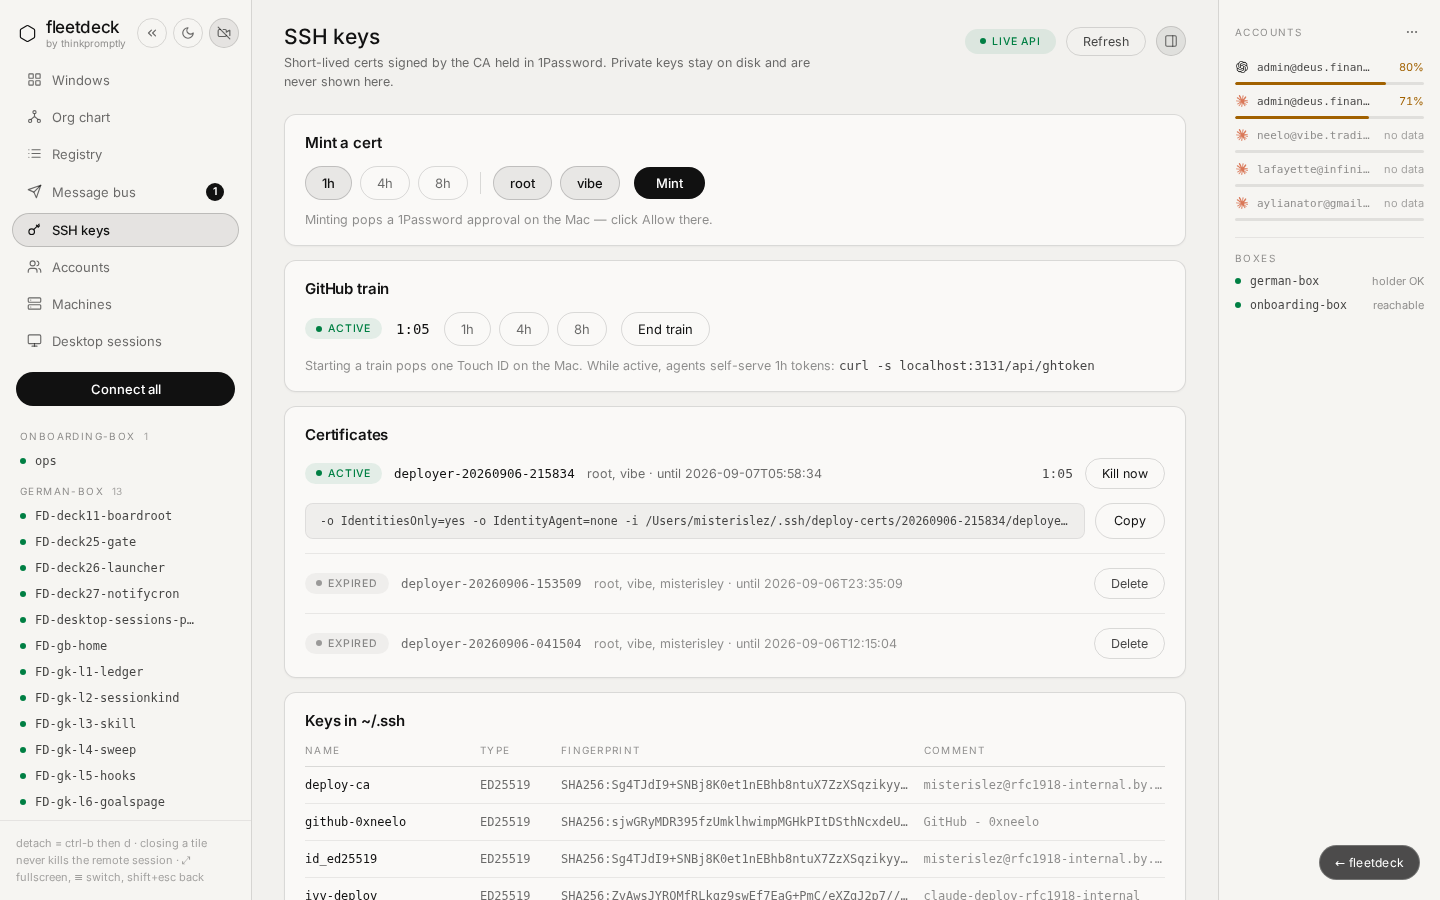
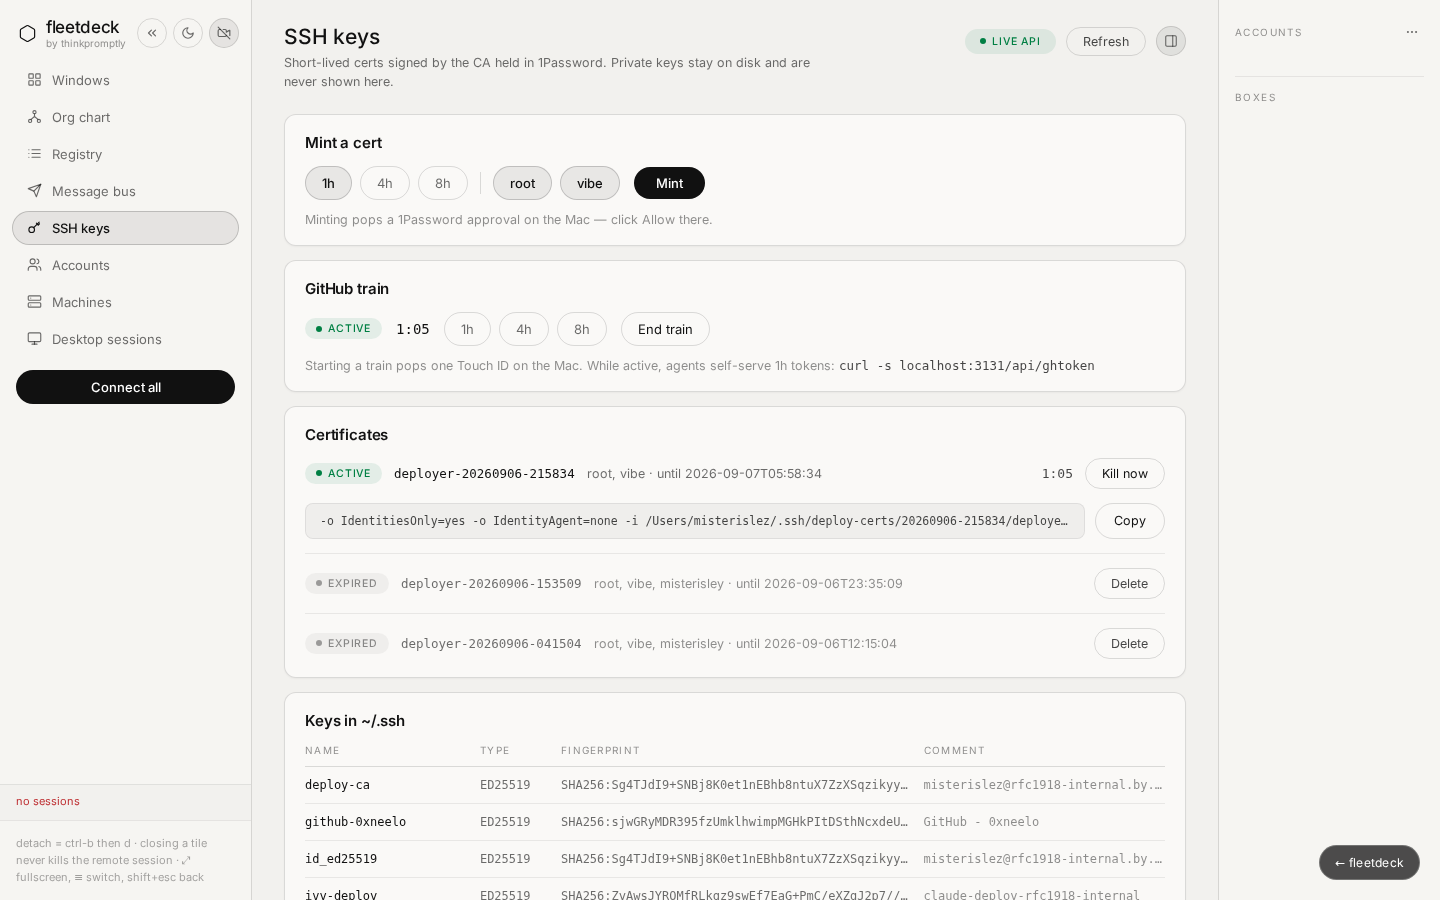
fix(fd-v2-l7.1): gate the poll and tick on the screen; re-apply data-dc-raw (DECK-44)
1. boot() started the 30 s sshkeys/ghtrain poll and the 1 s tick at module load,
   so the deck polled /api/sshkeys forever from whatever screen you were on.
   logic.js already hands sync() next.isKeys, so the timers now start on enter
   and stop on leave, and stop() releases the poll handle and drops ticks.

2. capture() set data-dc-raw on the Certificates card only on the first capture.
   The sc-if tears the subtree down on navigation, so every visit after the
   first ran with no guard at all. It is now re-applied on every capture, and
   only to a card the reconciler has already populated so an empty card is never
   frozen empty.

To make the lifecycle testable, keys.js now loads under Node the way org.js
does rather than returning at a document guard; screenEl() no-ops without a
document. Fixture mode still returns early — that is what holds the pixel gate.

  unit  test/v2-keys.test.js 18/18, incl. a mock-timer test that leaves the
        screen, advances five minutes and asserts no fetch
  live  71/71 allPass, incl. S25: leave, let three poll periods pass, revisit
        with a changed cert list, assert the guard is back and rows survive

Claude-Session: https://claude.ai/code/session_01KhMDKvm9SABNQ4v16YgyMb

diff --git a/public/v2/screens/keys.js b/public/v2/screens/keys.js
@@ -89,13 +89,16 @@
 
   // Fixture mode renders the mock verbatim. Register nothing, start no timers,
   // load no script, touch no DOM — this is what keeps the pixel gate at 36/36.
-  // No document means Node, where only the exports above are wanted.
   //
   // The fixture test is inlined rather than delegated to FD.data.isFixture()
   // because it has to answer BEFORE data.js is fetched below; it mirrors
   // data.js:563-567 exactly. Getting this wrong would put a network request on
   // the pixel-gate page, so it is deliberately the first thing decided.
-  if (typeof document === 'undefined') return;
+  //
+  // Node is NOT excluded here. Everything below touches the DOM only from a
+  // function, and the bootstrap guards on `document`, so requiring this file
+  // under Node registers FD.screens.keys and starts nothing — which is what
+  // lets test/v2-keys.test.js drive start()/stop() the way v2-org.test.js does.
   if (isFixtureMode()) return;
 
   function isFixtureMode() {
@@ -132,6 +135,10 @@
   var repaintQueued = false;
   var proto = null;      // deep clones of the mock's own nodes, used as row prototypes
   var seeded = false;    // live mode has restored today's principal default
+  var tickTimer = null;  // the 1 s countdown ticker, only while the screen is up
+  var pollHandle = null; // the 30 s sshkeys/ghtrain poll, same
+  var onScreen = false;  // the keys screen is the one currently rendered
+  var booted = false;    // FD.data is present, so the timers may run
 
   // ---- the seam with logic.js --------------------------------------------
   // logic.js calls this from its keys section on every render, before the
@@ -159,8 +166,19 @@
         }
       }
       if (next.prin) principals = next.prin;
-      queueRepaint();
+      // BEHAVIOUR §3/§6: the 30 s poll and the 1 s tick belong to this screen,
+      // not to the app. Today's keys.js is a page that only exists while you
+      // are on it; in a SPA that means starting on enter and stopping on leave,
+      // or the deck polls /api/sshkeys forever from whatever screen you are on.
+      var was = onScreen;
+      onScreen = !!next.isKeys;
+      if (onScreen && !was) start();
+      else if (!onScreen && was) stop();
+      if (onScreen) queueRepaint();
     },
+    // Exposed for verify/l7 and test/v2-keys.test.js, as org.js does.
+    start: start,
+    stop: stop,
     // Exposed for verify/l7 and test/v2-keys.test.js.
     _debug: {
       left: left,
@@ -172,6 +190,7 @@
       // it to flip the theme mid-session — the app has no theme toggle in its
       // markup, so there is no other way to drive that path from a test.
       get ctx() { return ctx; },
+      get timers() { return { tick: !!tickTimer, poll: !!pollHandle, onScreen: onScreen }; },
     },
   };
 
@@ -184,7 +203,11 @@
   // ---- DOM helpers --------------------------------------------------------
   function css(node, style) { if (node && style) Object.assign(node.style, style); }
   function kids(node) { return node ? Array.prototype.slice.call(node.children) : []; }
-  function screenEl() { return document.querySelector('[data-screen-label="SSH keys"]'); }
+  // No document means Node, where this module is required for its pure half
+  // and its lifecycle; every painter then no-ops instead of throwing.
+  function screenEl() {
+    return typeof document === 'undefined' ? null : document.querySelector('[data-screen-label="SSH keys"]');
+  }
 
   // The pill is <span style=pill><span style=dot></span>TEXT</span>: set the
   // wrapper style, the dot style, and the trailing text node.
@@ -213,9 +236,18 @@
   // them as prototypes for every painted row. This is why no markup is typed by
   // hand anywhere in this slice.
   function capture(root) {
-    if (proto) return true;
     var cards = kids(root);
     if (cards.length < 4) return false;
+    // Re-applied on EVERY capture. The sc-if wrapping this screen tears the
+    // whole subtree down when you navigate away, so a later visit gets fresh
+    // nodes carrying none of our attributes — setting it once on first capture
+    // left every visit after the first with no guard at all. Only ever set on
+    // a card the reconciler has already populated, so an empty card is never
+    // frozen empty.
+    if (kids(cards[2]).length && !cards[2].hasAttribute('data-dc-raw')) {
+      cards[2].setAttribute('data-dc-raw', '');
+    }
+    if (proto) return true;
     var mintRow = kids(cards[0])[1];
     var certRows = kids(cards[2]);
     if (!mintRow || certRows.length < 4) return false;
@@ -225,13 +257,6 @@
       certCopy: certRows[2].cloneNode(true),          // copy line + Copy button
       certDead: certRows[3].cloneNode(true),          // expired cert row
     };
-    // S2.2 F3: this card's children are ours from here on, so the reconciler
-    // must neither insert nor remove inside it. It already no-ops while the
-    // child set is unchanged; saying so explicitly means a future change to
-    // that set cannot start deleting painted rows. Set from JS because the
-    // template is out of scope — runtime.js:292 reads the live attribute.
-    // Never reached in fixture mode, where this module does not register.
-    cards[2].setAttribute('data-dc-raw', '');
     return true;
   }
 
@@ -529,10 +554,12 @@
 
   FD.screens.keys.load = load;
 
-  function boot() {
+  // ---- lifecycle ----------------------------------------------------------
+  function start() {
+    if (!booted || !FD.data || tickTimer) return;
     // Countdowns tick locally between the 30 s polls; a cert crossing zero
     // repaints so the badge flips and the Delete button appears (keys.js:158-166).
-    setInterval(function () {
+    tickTimer = setInterval(function () {
       var expired = false;
       for (var i = 0; i < ticks.length; i++) {
         var s = left(ticks[i].epoch);
@@ -541,13 +568,28 @@
       }
       if (expired) paint();
     }, TICK_MS);
-    FD.data.poll(load, POLL_MS);
+    pollHandle = FD.data.poll(load, POLL_MS);
     load();
+  }
+
+  function stop() {
+    if (tickTimer) clearInterval(tickTimer);
+    if (pollHandle && pollHandle.stop) pollHandle.stop();
+    tickTimer = pollHandle = null;
+    // The nodes these point at are about to be torn down by the sc-if.
+    ticks = [];
+  }
+
+  function boot() {
+    booted = true;
+    // sync() may already have told us the keys screen is up — data.js can land
+    // after the first render.
+    if (onScreen) start();
   }
 
   // Last statement in the file, so every declaration above has already run.
   if (FD.data) boot();
-  else {
+  else if (typeof document !== 'undefined') {
     var tag = document.createElement('script');
     tag.src = '/v2/data.js';
     tag.onload = function () { if (FD.data && !FD.data.isFixture()) boot(); };

diff --git a/test/v2-keys.test.js b/test/v2-keys.test.js
@@ -11,6 +11,7 @@ const assert = require('node:assert');
 const path = require('path');
 
 const ROOT = path.join(__dirname, '..');
+const SCREEN = path.join(ROOT, 'public/v2/screens/keys.js');
 
 const keys = require(path.join(ROOT, 'public/v2/screens/keys.js'));
 
@@ -153,13 +154,126 @@ test('the timers are the current app\'s 30 s poll, 1 s tick and 1.5 s copy rever
 // Requiring the module in Node must stay inert.
 // ---------------------------------------------------------------------------
 
-test('requiring the screen in Node registers nothing and starts no timer', () => {
-  // The DOM half returns at the document guard, so the test process exits on its
-  // own: a live setInterval here would hang the run.
+test('requiring the screen in Node exports the pure half and starts no timer', () => {
+  // L7.1 changed this contract deliberately. The module used to return at a
+  // `typeof document === 'undefined'` guard, which also made its lifecycle
+  // untestable. It now loads under Node the way org.js does — so the require
+  // below DOES register FD.screens.keys — but it must still start nothing: a
+  // live setInterval here would hang the run, and a fetch would mean the app
+  // polls before any screen is entered.
   assert.strictEqual(typeof document, 'undefined');
-  assert.strictEqual(globalThis.FD && globalThis.FD.screens && globalThis.FD.screens.keys, undefined);
   assert.deepStrictEqual(Object.keys(keys).sort(), [
     'COPIED_MS', 'KILL_CONFIRM', 'PRINCIPALS', 'PRINCIPAL_TITLE', 'POLL_MS', 'TICK_MS', 'TTLS',
     'httpBody', 'left', 'pad', 'sshOpts', 'unwrapError',
   ].sort());
+  // The registered surface is inert until a screen is entered. (The L7.1 test
+  // below installs its own FD; here the module was required with none, so the
+  // registration is whatever that produced — the timers are the claim.)
+  const live = globalThis.FD && globalThis.FD.screens && globalThis.FD.screens.keys;
+  if (live && live._debug) {
+    assert.deepStrictEqual(live._debug.timers, { tick: false, poll: false, onScreen: false });
+  }
+});
+
+// ---------------------------------------------------------------------------
+// L7.1 — the poll and the tick belong to the screen, not to the app.
+//
+// Today's keys.js is a page that only exists while you are on it. In the SPA
+// that means the 30 s /api/sshkeys poll and the 1 s countdown tick must start
+// when the screen is entered and stop when it is left; before this fix they
+// began at module load and ran from every other screen for the whole session.
+//
+// keys.js is a browser IIFE, so it is loaded the way test/v2-org.test.js loads
+// org.js: window aliased to the global, FD stubbed, then required. With no
+// document its DOM half is inert, which is exactly what makes the lifecycle
+// observable on its own.
+test('L7.1 the sshkeys poll and the countdown tick follow the screen', async (t) => {
+  const realWindow = global.window;
+  const realFD = global.FD;
+  global.window = global;
+
+  const fetched = [];
+  let pollFn = null;
+  let pollStopped = 0;
+
+  global.FD = {
+    fixture: {},
+    screens: {},
+    shell: {},
+    setData(name, value) { this.fixture[name] = value; },
+    data: {
+      isFixture: () => false,
+      sshkeys: () => { fetched.push('/api/sshkeys'); return Promise.resolve({ certs: [], keys: [] }); },
+      ghtrain: () => { fetched.push('/api/ghtrain'); return Promise.resolve({ active: false, expiresAt: null }); },
+      toKeys: () => ({ keyRows: [], certs: [], train: null }),
+      // Mirrors data.js:595-601 — a real interval behind a stop handle, so the
+      // mocked clock below drives it exactly as the browser would.
+      poll(fn, ms) {
+        pollFn = fn;
+        const id = setInterval(fn, ms);
+        return { stop() { clearInterval(id); pollStopped += 1; pollFn = null; } };
+      },
+    },
+  };
+
+  delete require.cache[require.resolve(SCREEN)];
+  require(SCREEN);
+  const keys = global.FD.screens.keys;
+
+  t.after(() => {
+    keys.stop();
+    delete require.cache[require.resolve(SCREEN)];
+    global.window = realWindow;
+    global.FD = realFD;
+  });
+
+  const sync = (isKeys) => keys.sync({ t: {}, dark: true, isKeys, pills: {}, chipBtn: {}, chipBtnSel: {} });
+  const settle = () => new Promise((r) => setImmediate(r));
+  // Real intervals, mocked clock: ticking advances the module's own timers.
+  t.mock.timers.enable({ apis: ['setInterval'] });
+
+  // Loading the module must not start anything: no screen has been entered.
+  assert.deepEqual(keys._debug.timers, { tick: false, poll: false, onScreen: false });
+  assert.deepEqual(fetched, [], 'module load must not fetch');
+
+  // Entering the screen starts both timers and does the first load.
+  sync(true);
+  assert.equal(keys._debug.timers.tick, true, 'the 1 s tick runs on the keys screen');
+  assert.equal(keys._debug.timers.poll, true, 'the 30 s poll runs on the keys screen');
+  await settle();
+  assert.deepEqual(fetched.slice().sort(), ['/api/ghtrain', '/api/sshkeys'], 'entering loads once');
+
+  // Advancing past the 30 s poll while the screen is up DOES fetch — otherwise
+  // the negative assertion below would pass for the wrong reason.
+  fetched.length = 0;
+  t.mock.timers.tick(30_000);
+  await settle();
+  assert.equal(fetched.length, 2, 'the poll fetches while the screen is up');
+
+  // Leaving stops both timers and releases the poll handle.
+  sync(false);
+  assert.deepEqual(keys._debug.timers, { tick: false, poll: false, onScreen: false }, 'both timers stop on leave');
+  assert.equal(pollStopped, 1, 'the poll handle is released, not just dropped');
+  assert.equal(pollFn, null);
+
+  // The core claim: advance well past several poll and tick periods after
+  // leaving, and nothing is fetched.
+  fetched.length = 0;
+  t.mock.timers.tick(5 * 60_000);
+  await settle();
+  assert.deepEqual(fetched, [], 'no fetch after leaving the screen');
+
+  // Re-entering starts a fresh pair rather than leaking a second set.
+  sync(true);
+  assert.equal(keys._debug.timers.tick, true, 're-entering restarts the tick');
+  assert.equal(keys._debug.timers.poll, true, 're-entering restarts the poll');
+  const before = keys._debug.timers;
+  sync(true);                                    // a second render on the same screen
+  assert.deepEqual(keys._debug.timers, before, 'a repeat render does not stack timers');
+
+  // And a repeat render really did not stack a second poll: one tick, one pair.
+  fetched.length = 0;
+  t.mock.timers.tick(30_000);
+  await settle();
+  assert.equal(fetched.length, 2, 'exactly one poll is running after a repeat render');
 });
